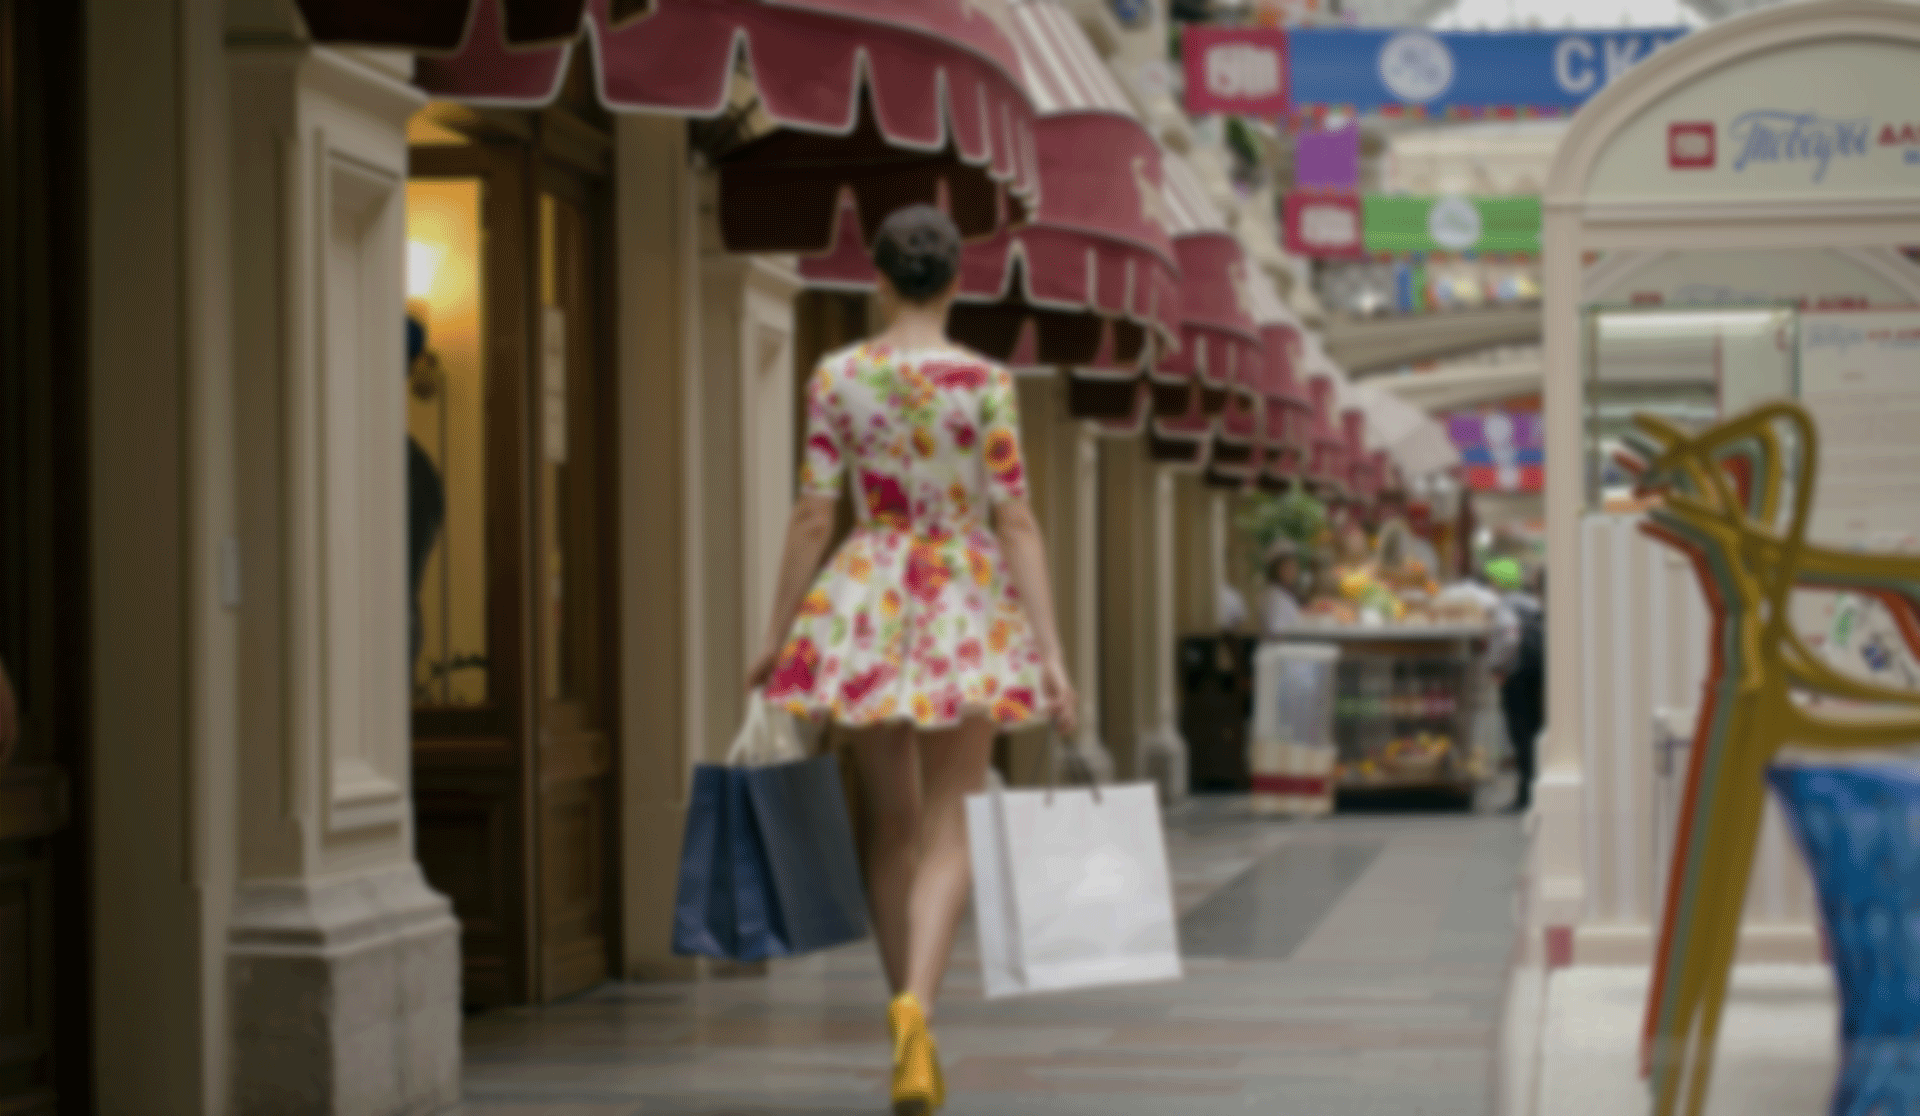
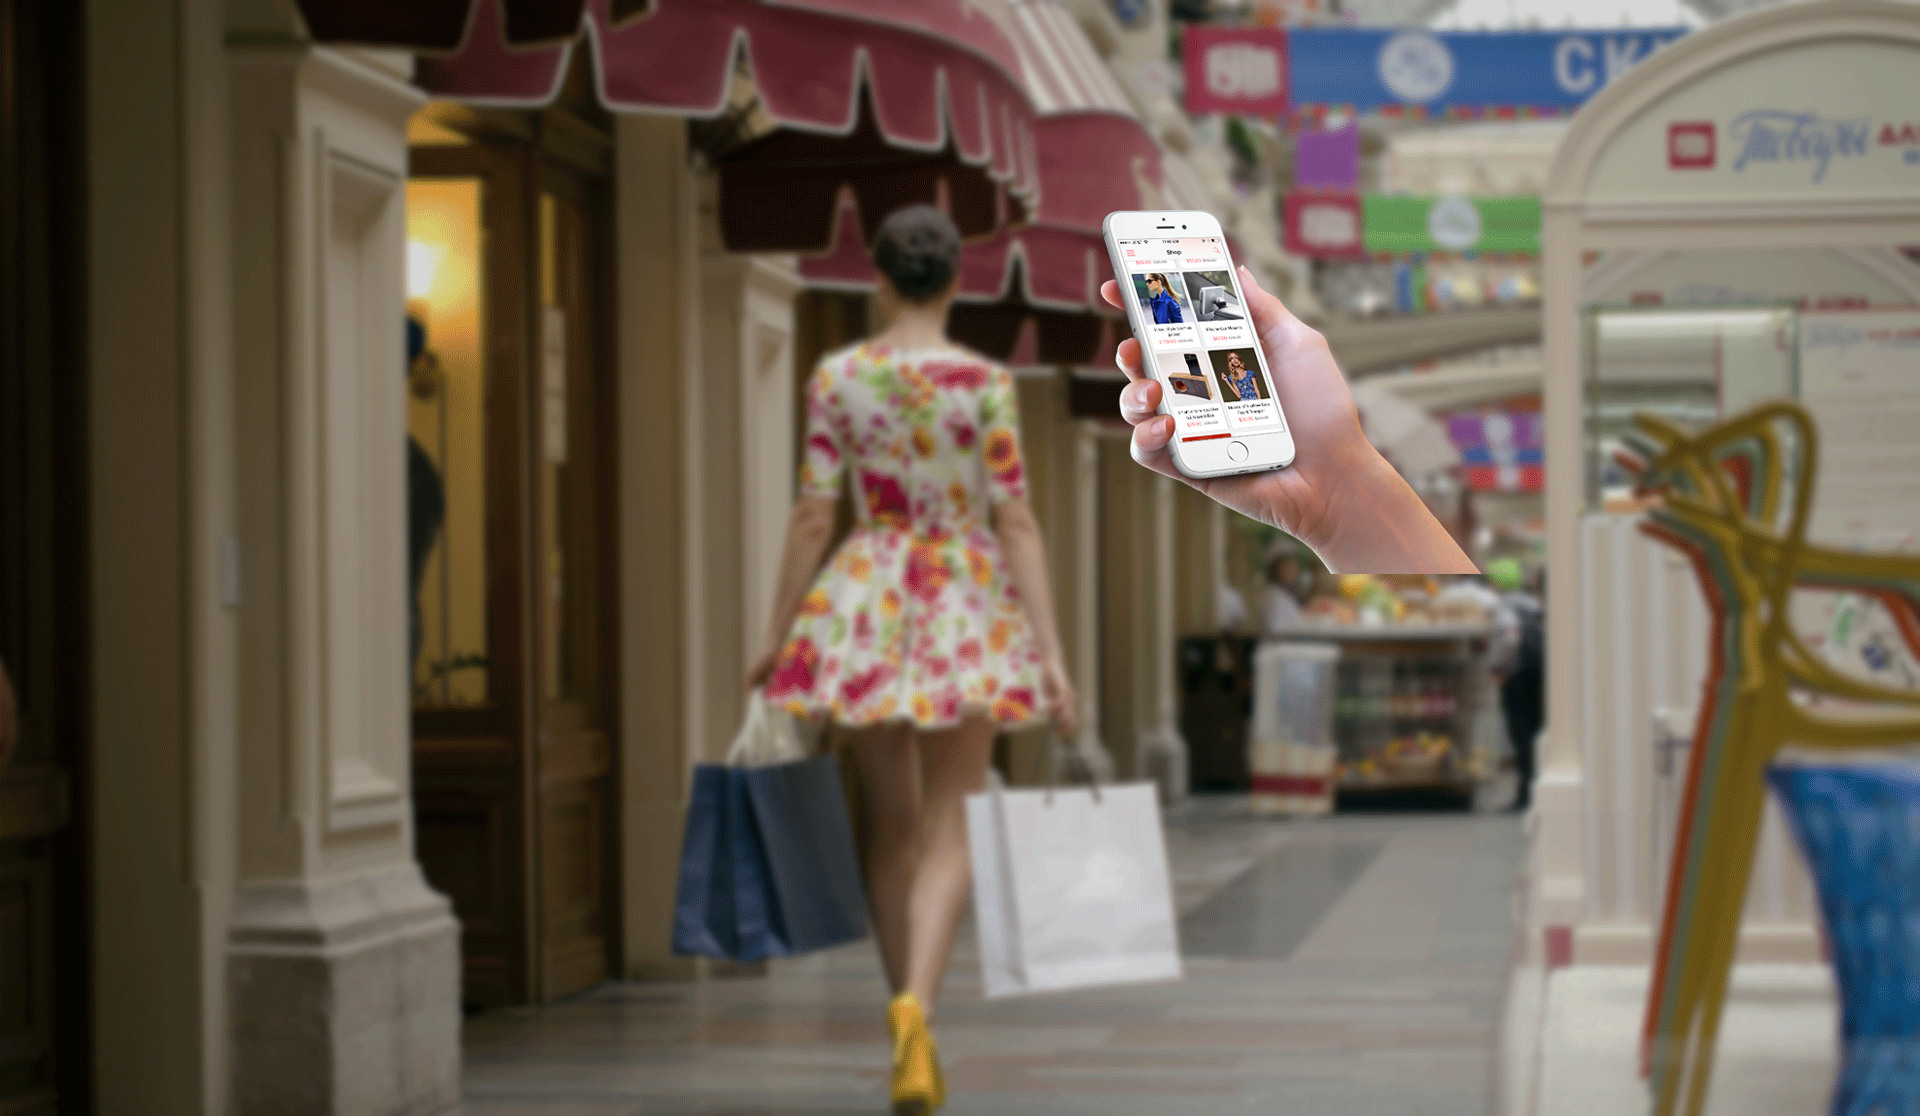
new background image

Changed region(s): [[0.5625, 0.1828, 0.7812, 0.5179]]

diff --git a/index.html b/index.html
@@ -68,9 +68,6 @@
                         </a>
                     </div>
                 </div>
-                <div class="col-md-5 text-center">
-                    <img class="mobile-image" style="width: 90% !important;" src="img/Berry_hand.png" alt="Mobile Image">
-                </div>
             </div>
         </div>
     </div>
